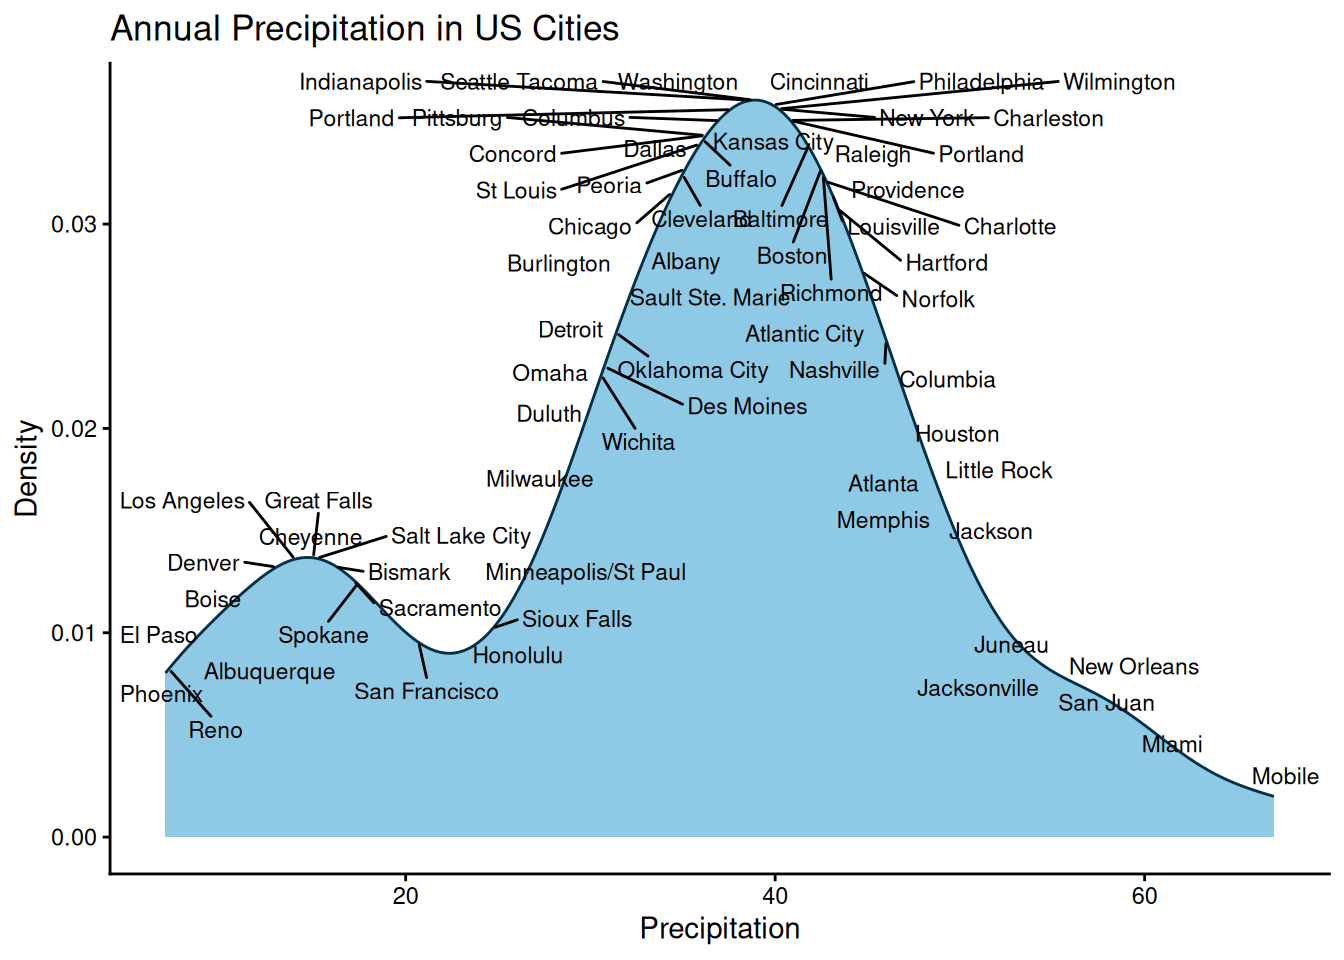
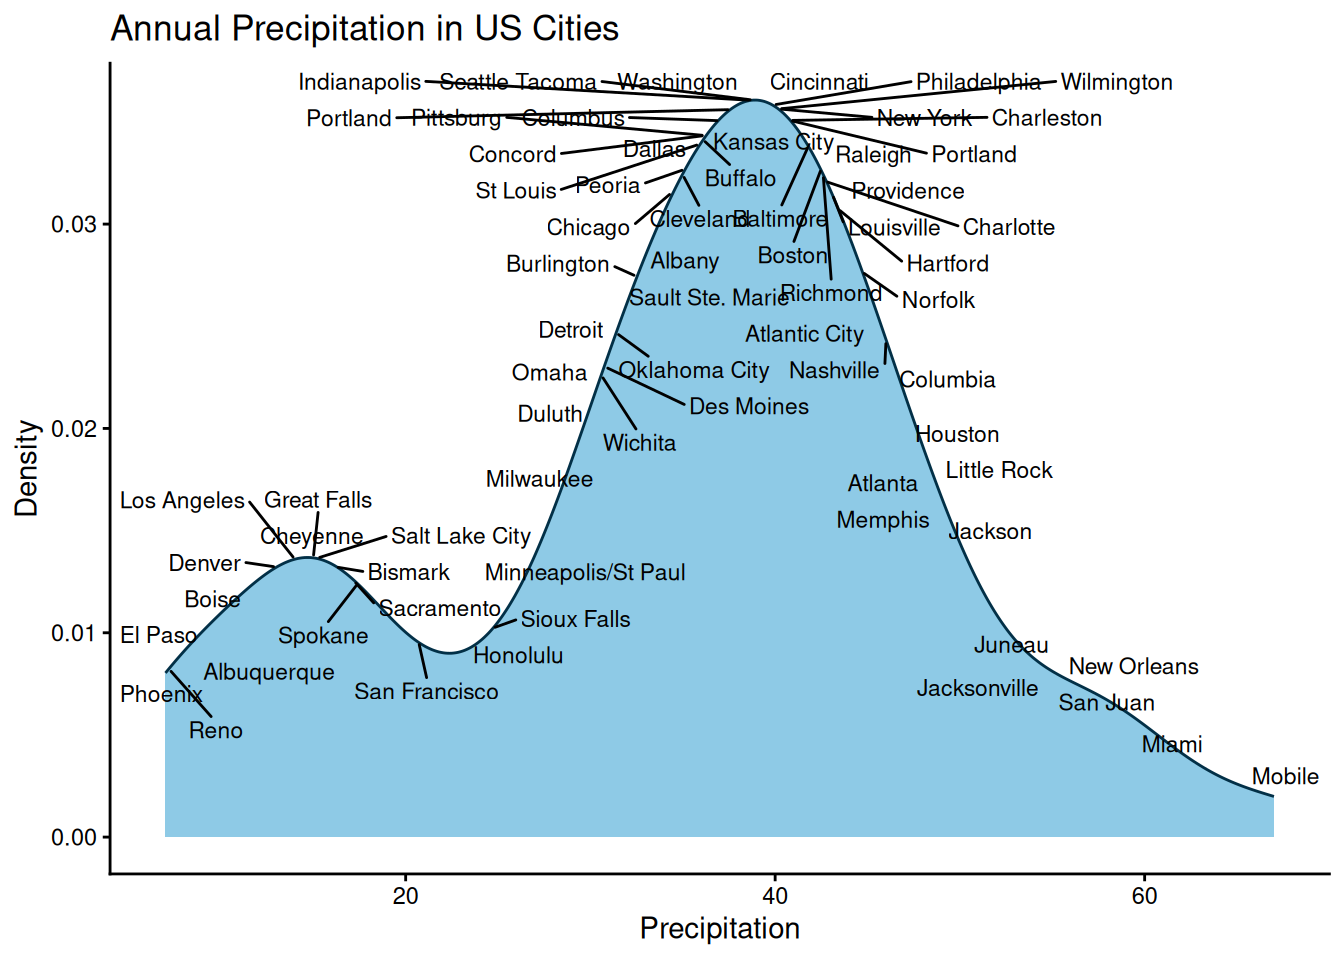
fix: Update AWS Nextflow guide with improved instructions and minor text corrections

diff --git a/_site/posts/the-2026-aws-nextflow-survival-guide/index.html b/_site/posts/the-2026-aws-nextflow-survival-guide/index.html
@@ -548,11 +548,19 @@ Important
 <li><code>EC2LaunchTemplates</code> also includes the EC2/ECS describe actions Nextflow commonly uses when orchestrating Batch jobs.</li>
 </ul>
 <p>So the split is deliberate: the head node can coordinate everything, while destructive data access stays constrained to your dedicated Nextflow bucket.</p>
-<p>Replace placeholders:</p>
-<ul>
-<li><code>&lt;NextflowTaskRole_ARN&gt;</code> with the ARN of the IAM role you created in step 2.1. (e.g.&nbsp;<code>arn:aws:iam::&lt;account-id&gt;:role/NextflowTaskRole</code>)</li>
-<li><code>&lt;NEXTFLOW_WORKDIR_BUCKET_ARN&gt;</code> with the ARN of the S3 bucket you created in step 1.</li>
-</ul>
+<div class="callout callout-style-default callout-important callout-titled">
+<div class="callout-header d-flex align-content-center">
+<div class="callout-icon-container">
+<i class="callout-icon"></i>
+</div>
+<div class="callout-title-container flex-fill">
+Important
+</div>
+</div>
+<div class="callout-body-container callout-body">
+<p>Replace placeholders: - <code>&lt;NextflowTaskRole_ARN&gt;</code> with the ARN of the IAM role you created in step 2.1. (e.g.&nbsp;<code>arn:aws:iam::&lt;account-id&gt;:role/NextflowTaskRole</code>) - <code>&lt;NEXTFLOW_WORKDIR_BUCKET_ARN&gt;</code> with the ARN of the S3 bucket you created in step 1.</p>
+</div>
+</div>
 <div class="callout callout-style-default callout-note callout-titled">
 <div class="callout-header d-flex align-content-center">
 <div class="callout-icon-container">
@@ -856,7 +864,7 @@ Tip
 <figcaption>nf-probe</figcaption>
 </figure>
 </div>
-<p>I’ve developed a simple Nextflow pipeline called <code>nf-probe</code> for this exact purpose, of testing and validating new AWS Batch setups.</p>
+<p>I’ve developed a simple Nextflow pipeline called <a href="https://github.com/lpembleton/nf-probe">nf-probe</a> for this exact purpose, of testing and validating new AWS Batch setups.</p>
 <div class="code-copy-outer-scaffold"><div class="sourceCode" id="cb7"><pre class="sourceCode bash code-with-copy"><code class="sourceCode bash"><span id="cb7-1"><a href="#cb7-1" aria-hidden="true" tabindex="-1"></a><span class="fu">git</span> clone https://github.com/lpembleton/nf-probe.git</span>
 <span id="cb7-2"><a href="#cb7-2" aria-hidden="true" tabindex="-1"></a><span class="bu">cd</span> nf-probe</span>
 <span id="cb7-3"><a href="#cb7-3" aria-hidden="true" tabindex="-1"></a></span>
@@ -880,7 +888,7 @@ Tip
 </section>
 <section id="final-thought" class="level2">
 <h2 class="anchored" data-anchor-id="final-thought">Final Thought</h2>
-<p>If you can afford Seqera Platform, it will make your life easier. If you cannot, this setup is a solid way to run serious Nextflow workloads on AWS in 2026 without selling your kidney (AWS already has your first 😉).</p>
+<p>If you can afford Seqera Platform, it will make your life easier. If you cannot, this setup is a solid way to run serious Nextflow workloads on AWS in 2026 without selling your last kidney (AWS already has your first 😉).</p>
 
 
 </section>

diff --git a/_site/blog.html b/_site/blog.html
@@ -312,7 +312,7 @@ window.Quarto = {
 
 <div class="quarto-listing quarto-listing-container-default" id="listing-listing">
 <div class="list quarto-listing-default">
-<div class="quarto-post image-right" data-index="0" data-categories="TmV4dGZsb3clMkNBV1MlMkNCYXRjaA==" data-listing-date-sort="1787839200000" data-listing-file-modified-sort="1788620718787" data-listing-date-modified-sort="NaN" data-listing-reading-time-sort="21" data-listing-word-count-sort="4048">
+<div class="quarto-post image-right" data-index="0" data-categories="TmV4dGZsb3clMkNBV1MlMkNCYXRjaA==" data-listing-date-sort="1787839200000" data-listing-file-modified-sort="1788622658223" data-listing-date-modified-sort="NaN" data-listing-reading-time-sort="21" data-listing-word-count-sort="4050">
 <div class="thumbnail"><a href="./posts/the-2026-aws-nextflow-survival-guide/index.html" class="no-external">
 
 <img loading="lazy" src="./posts/the-2026-aws-nextflow-survival-guide/images/dippyaman-nath-EegncyuEqEI-unsplash.jpg" class="thumbnail-image">
